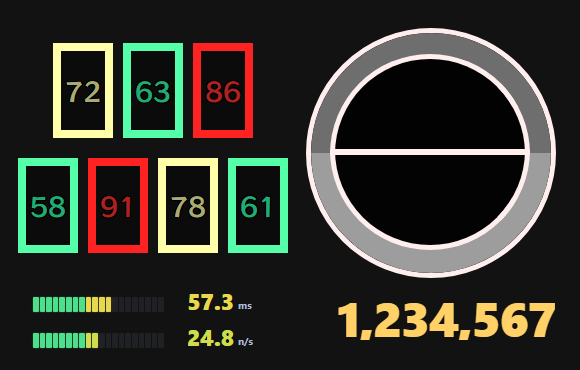
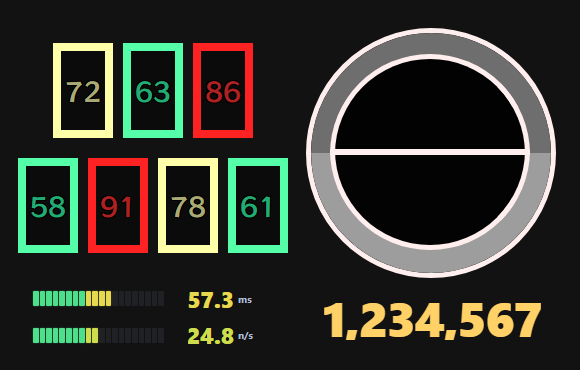
レイアウト調整

diff --git a/html/statistics_panel.css b/html/statistics_panel.css
@@ -46,7 +46,7 @@ html.statistics-preview warning {
 .statistics-row {
     display: grid;
     grid-template-columns: minmax(70px, 1fr) 70px 27px;
-    align-items: flex-end;
+    align-items: center;
     min-width: 0;
     padding: 3px 7px 3px 10px;
 }
@@ -63,14 +63,10 @@ html.statistics-preview warning {
     --statistics-accent: #ffd166;
     display: flex;
     flex-direction: column;
-    align-items: center;
+    align-items: flex-end;
     justify-content: center;
     min-width: 0;
     padding: 2px 4px;
-}
-
-html.stats-view-graph .statistics-modern:not(.statistics-standalone) .statistics-notes {
-    transform: translateX(36px);
 }
 
 .statistics-meter {
